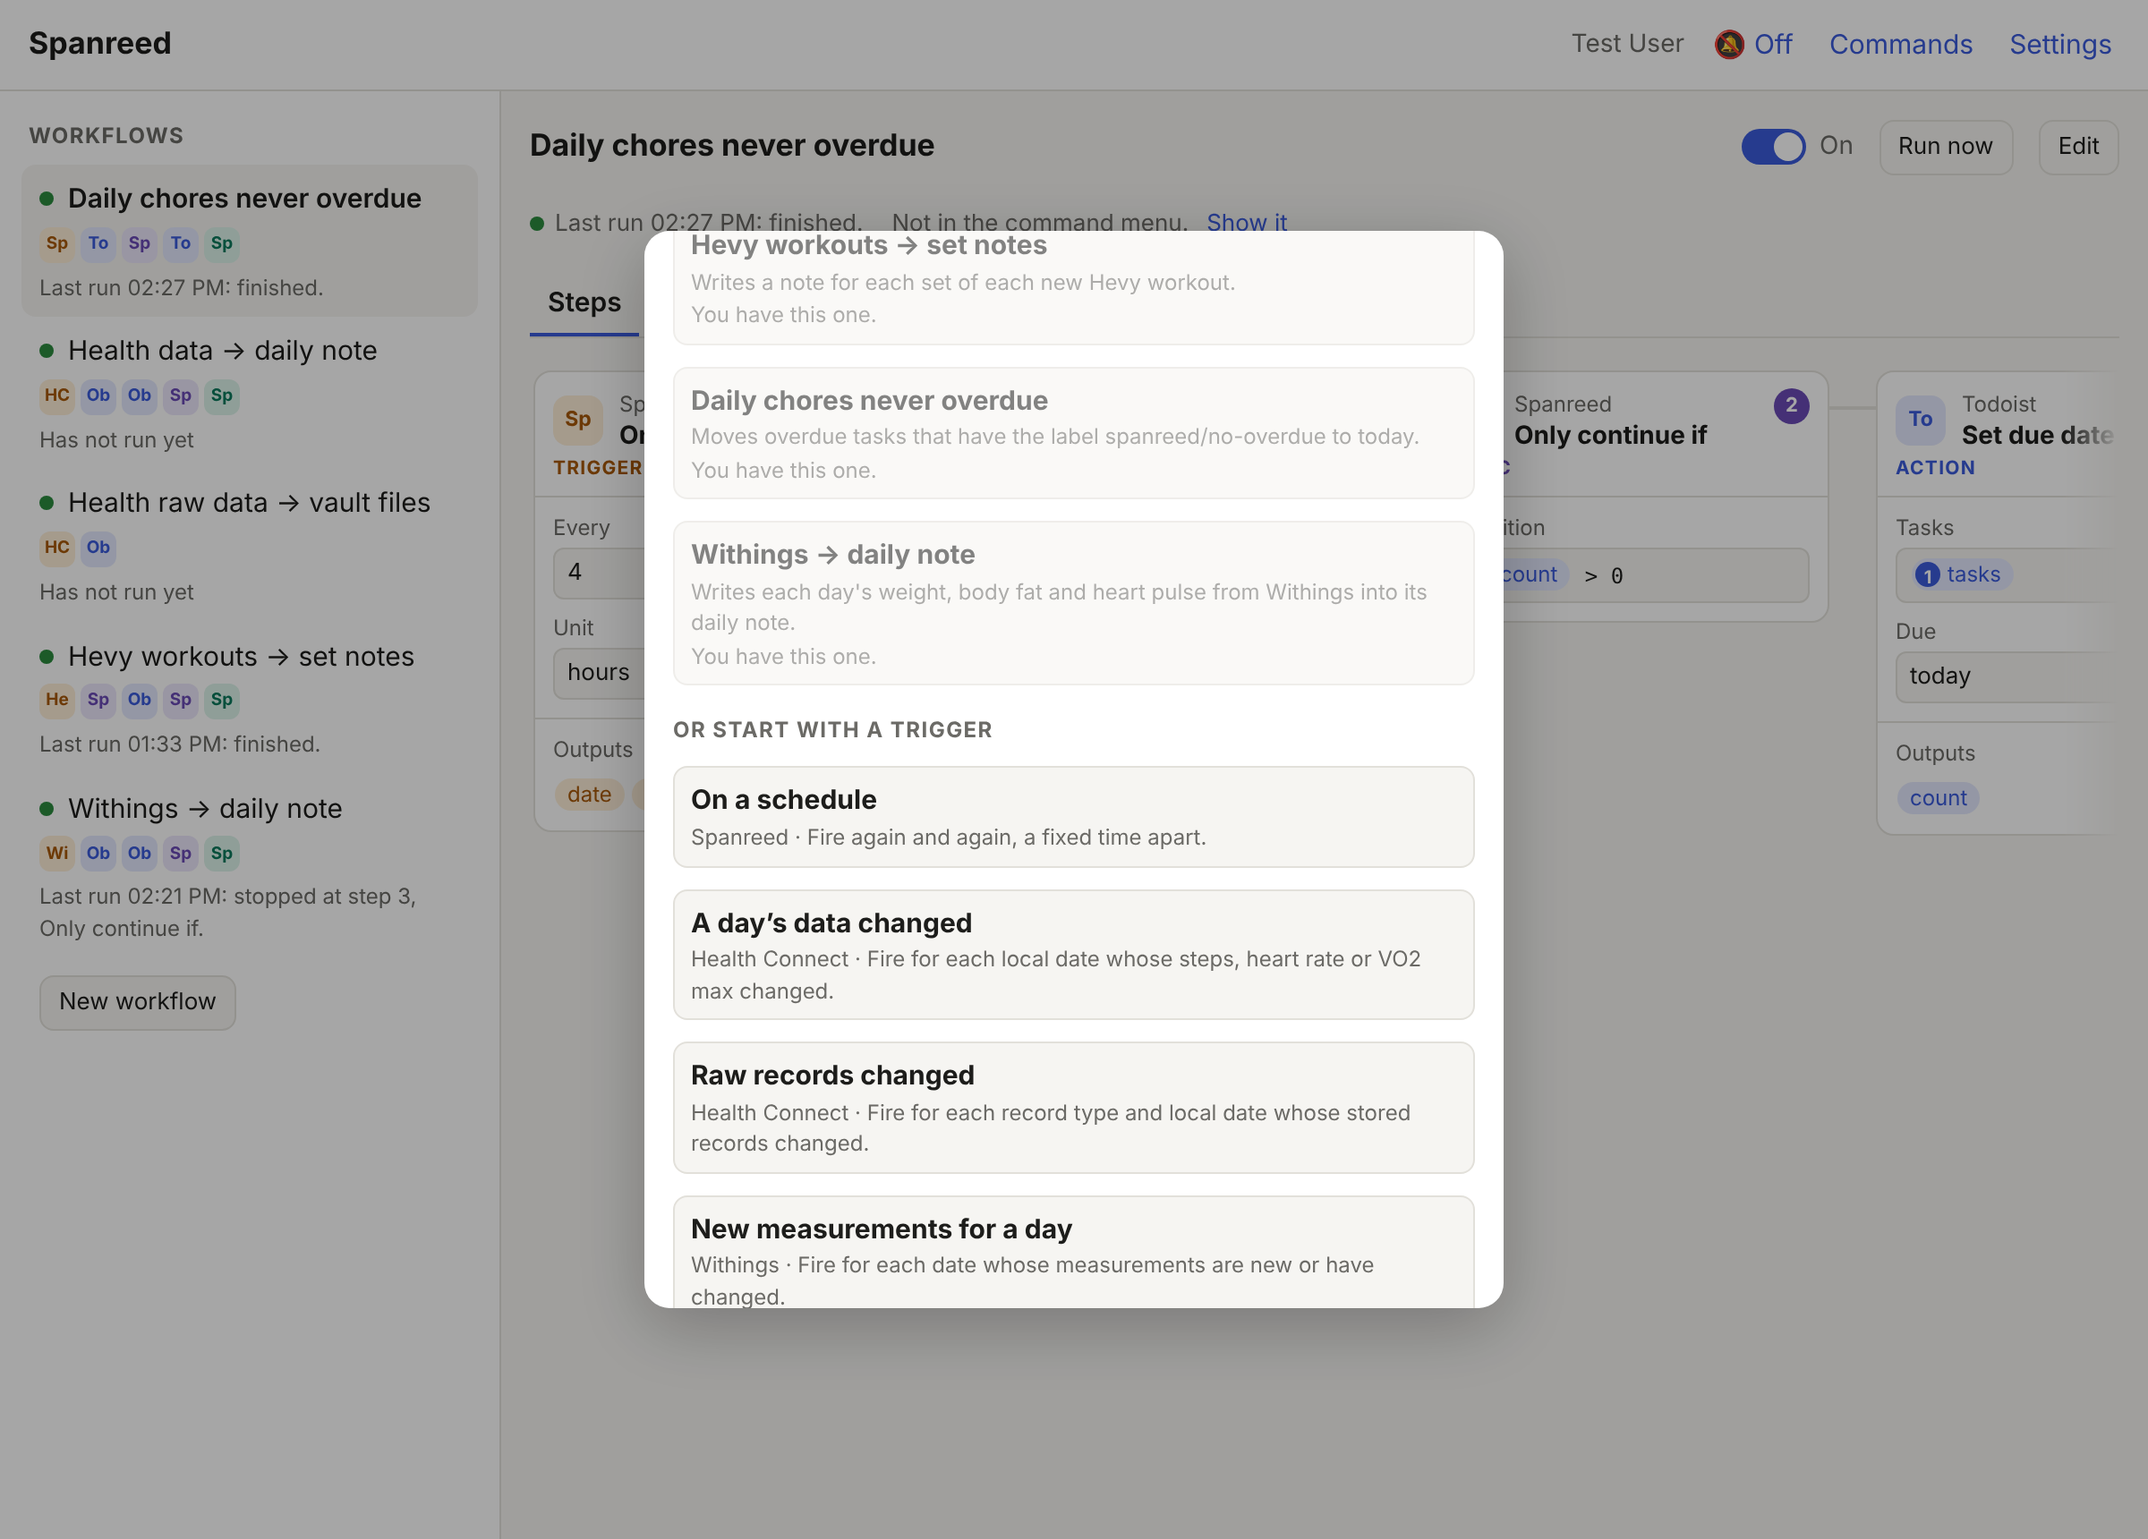
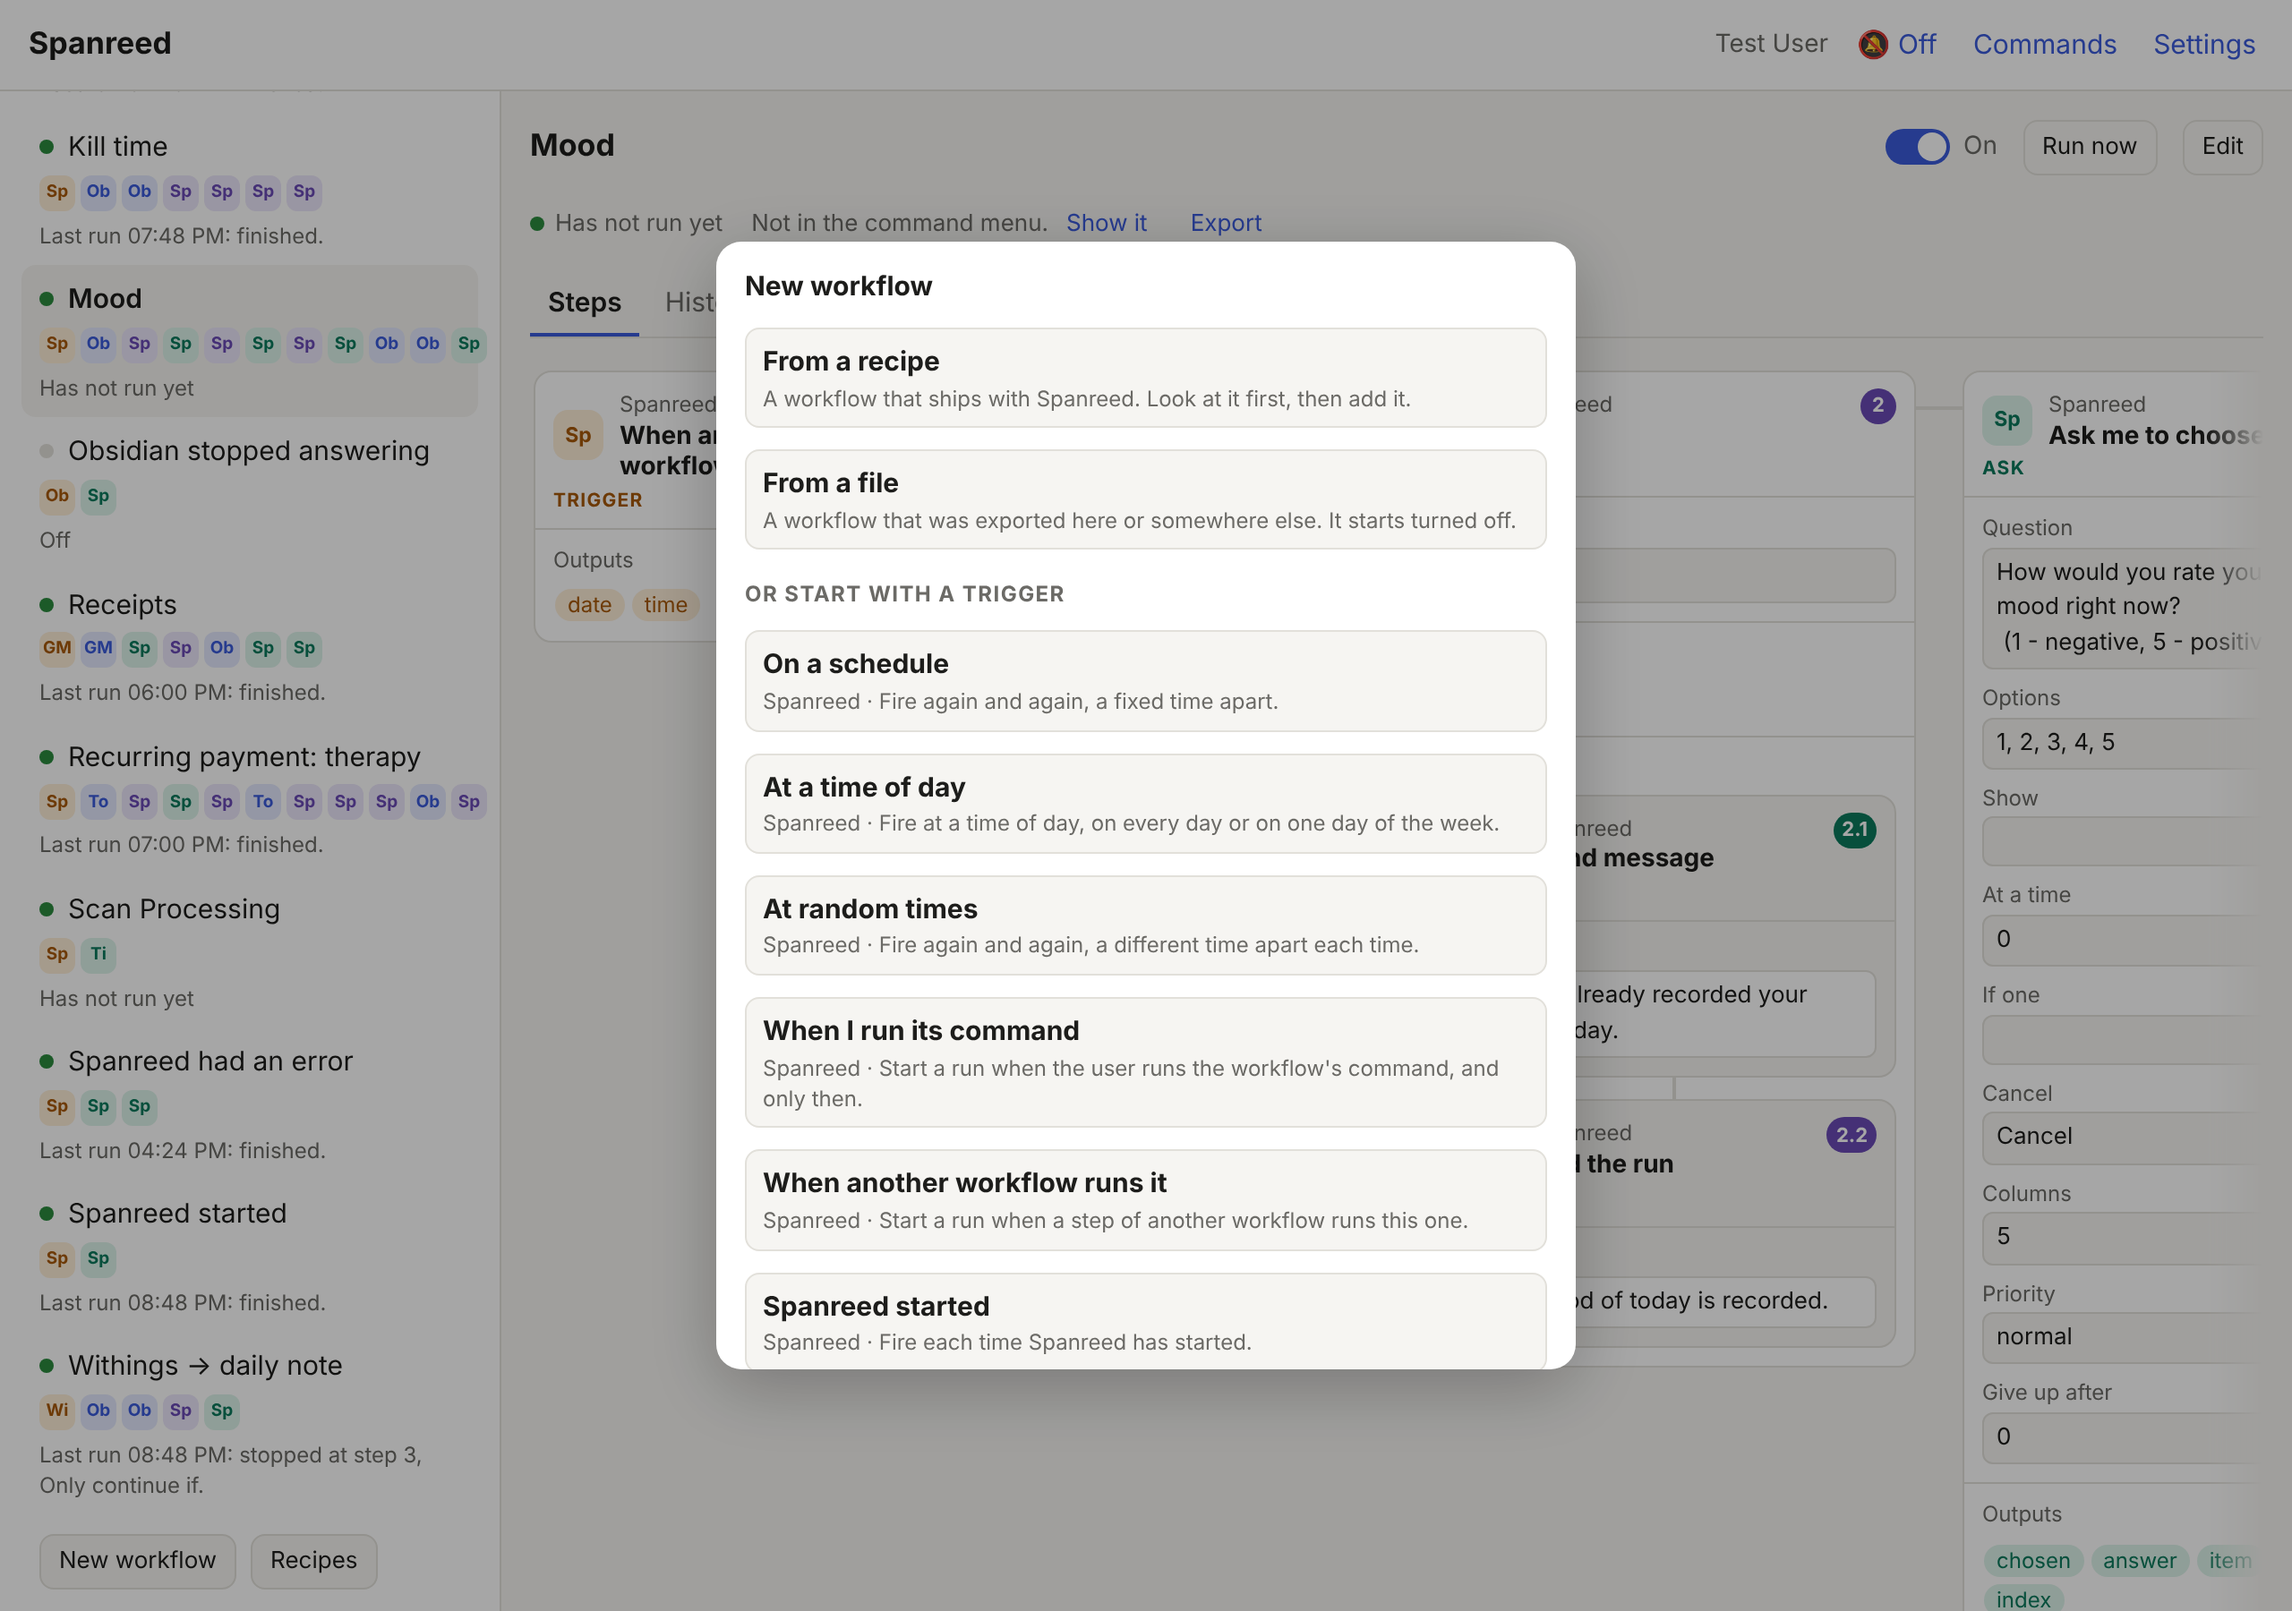
Document the recipes and a workflow as a file
Claude-Session: https://claude.ai/code/session_01QzqhoS57BRikM8WspjXTYv

diff --git a/docs/web-ui.md b/docs/web-ui.md
@@ -296,20 +296,56 @@ differently and come to the same note are not noticed.
 
 ### A new workflow
 
-**New workflow**, under the list, offers the recipes and the triggers.
+**New workflow**, under the list, offers three ways to start.
 
 ![A new workflow](images/web-ui-workflow-new-desktop.png)
 
-- **From a recipe** adds the workflow as it ships, turned on. A recipe you
-  have already, or one that needs a plugin you have not set up, is listed and
-  says so.
+- **From a recipe** opens the recipes.
+- **From a file** takes a workflow that was exported, here or somewhere
+  else. It starts turned off: it comes from someone else, so look at its
+  steps before it runs. A file that is no workflow, or that uses a block
+  this Spanreed does not have, is refused, and the page says why.
 - **Start with a trigger** makes a workflow with that trigger and no steps,
   and opens it in the editor. It is off until you turn it on.
 
+### The recipes
+
+**Recipes**, next to New workflow, shows the workflows that ship with
+Spanreed: what each does, and a mark for each block it uses. The ones you
+can add come first. One that you have already, or that needs a plugin you
+have not set up, says so.
+
+![The recipes](images/web-ui-workflow-recipes-desktop.png)
+
+**Look** shows a recipe as the cards it would give you, with every input as
+it ships, before anything is added. **Add** adds the workflow, turned on.
+It is yours from then on: changing it does not change the recipe.
+
+![A recipe before it is added](images/web-ui-workflow-recipe-desktop.png)
+
+### A workflow as a file
+
+**Export**, under the name of a workflow, downloads it as a file: its name,
+its trigger and its steps, with every input as you wrote it. The file is
+the JSON that a recipe is written in (see [workflows.md](workflows.md)), so
+it can be given to someone else, kept as a copy, or changed by hand. It does
+not hold what the workflow remembers, what its trigger has seen, or its
+history. It does hold what you typed into the steps: read it before you
+give it away.
+
+**New workflow → From a file** brings such a file in, as a new workflow of
+its own. If you have a workflow of that name already, the new one gets a
+number after its name.
+
+![A workflow that came from a file](images/web-ui-workflow-imported-desktop.png)
+
 The API is `GET /app/api/workflows` (the list), `POST` on the same path (a
-new workflow), `GET /app/api/workflows/catalog` (the blocks and the recipes),
+new workflow: from a `recipe`, from the data of a file as `workflow`, or with
+only a `trigger`), `GET /app/api/workflows/catalog` (the blocks and the
+recipes), `GET /app/api/workflows/recipes/<id>` (one recipe as cards),
 `GET /app/api/workflows/<id>` (one workflow as cards), `PUT` and `DELETE` on
-the same path, `GET /app/api/workflows/<id>/runs` (the traces), and `POST` on
+the same path, `GET /app/api/workflows/<id>/runs` (the traces),
+`GET /app/api/workflows/<id>/export` (the workflow as a file), and `POST` on
 `/app/api/workflows/<id>/enabled`, `/command`, `/run` and `/test`. All of them answer
 only for a workflow of the logged-in user. A trace holds what the steps
 received and returned, so it is sent only to its owner and only when the

diff --git a/docs/workflows.md b/docs/workflows.md
@@ -69,6 +69,15 @@ block must exist, the inputs must fit the block, and a template can only refer
 to the trigger, the run or an earlier step. A workflow with a problem is not
 started, and **Manage workflows** says what the problem is.
 
+A user's own workflow goes out in the same JSON (**Export** on its page),
+and comes in again as a new workflow (**New workflow → From a file**):
+`spanreed/workflows/sharing.py`. The file is a recipe, so a workflow that
+someone built can be put in `recipes/` as it is, with a description. What
+comes in is checked from the ground up, as above, and is refused with what
+is wrong if this Spanreed cannot run it. It starts turned off, and it never
+takes the `id`, the user or the state of the workflow it was made from:
+the file holds none of them.
+
 ### Steps inside a step
 
 A step whose block is a loop holds steps of its own. `core.for-each` runs
